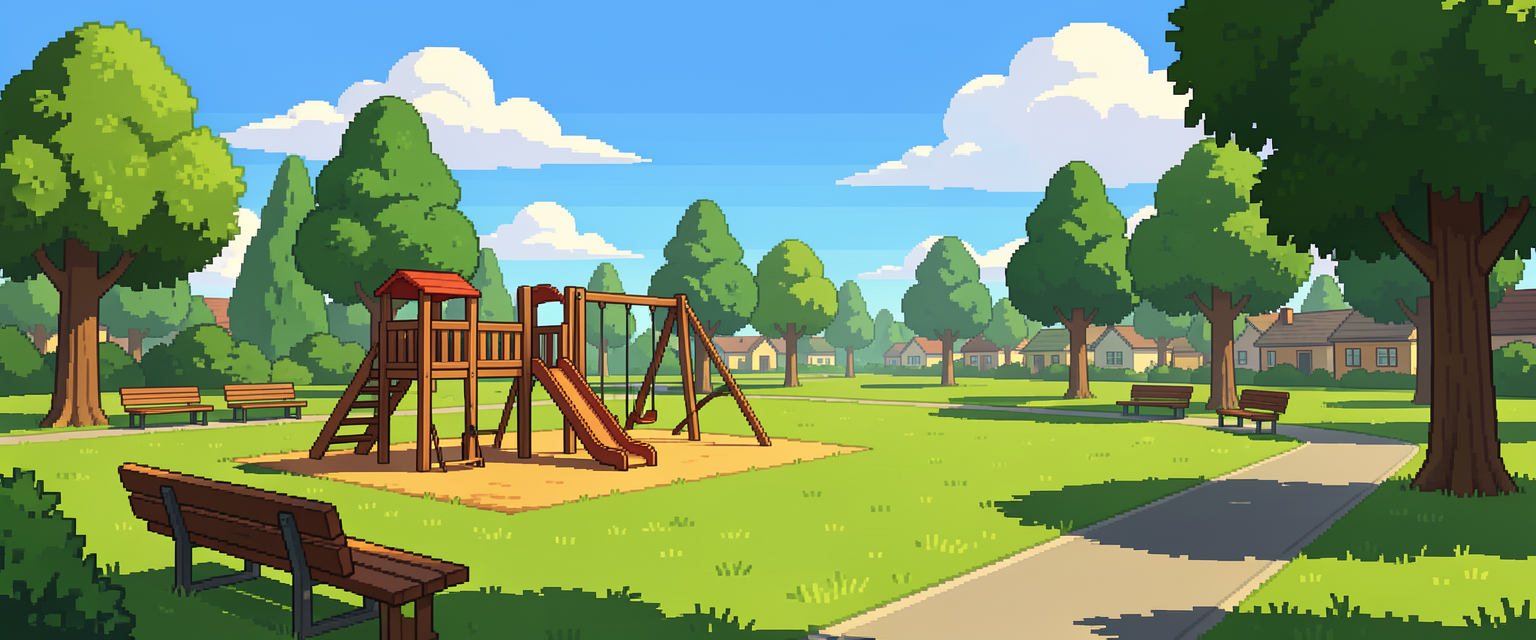
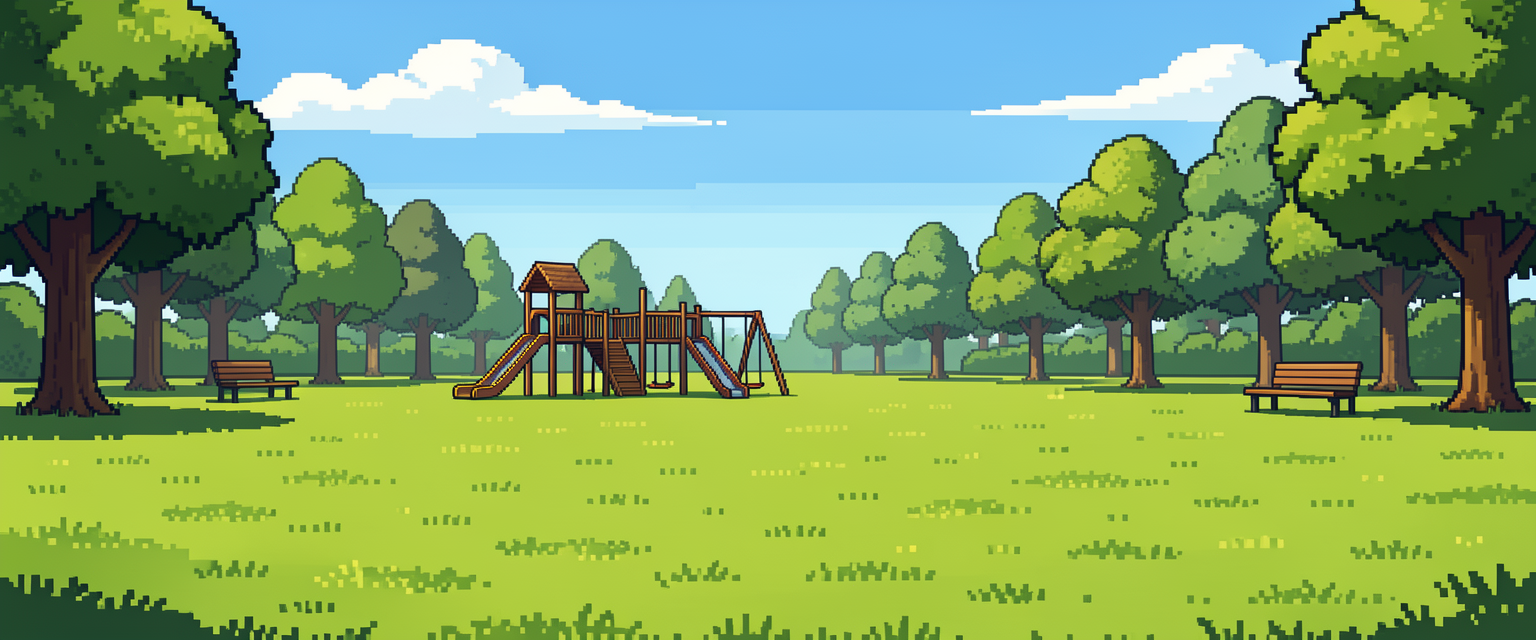
Fix black-bar letterboxing bug, restore creature size, raise art horizon
Found a real bug behind the black bars reported on-device, not just a
tuning problem: every full-rect art TextureRect in the project (11
.tscn files -- backgrounds, card art, battle sprites, item art) used
stretch_mode = 5, which was assumed to mean "crop to fill." It doesn't --
checked the actual enum values directly and 5 is
STRETCH_KEEP_ASPECT_CENTERED (fits *within* the rect, letterboxing the
rest) while 6 is STRETCH_KEEP_ASPECT_COVERED (crops to fill, no bars).
On a full-screen background this shows up as literal black bars top and
bottom on any device wider than the source art's aspect ratio -- exactly
what showed up on mobile. Fixed to 6 everywhere. (One remaining
reference, battle_v2.gd's ability-pop sprite, was already using the
symbolic STRETCH_KEEP_ASPECT_CENTERED name deliberately -- that sprite's
size is directly tweened, so not-cropping is correct there and it was
left alone.)

Also addressed creatures reading as too small and still not grounded:
- The previous round's tight anchor band (squeezing the creature grid's
  height to chase a low horizon) was the direct cause of the small
  size -- GridContainer sizes children off the assigned band when height
  is the binding constraint. Restored a generous band close to the
  original pre-background sizing.
- Rather than continuing to squeeze the UI down to reach a low horizon,
  regenerated all three Suburbs battle backgrounds with the ground
  filling roughly three quarters of the frame (horizon ~35-45% down
[…]

diff --git a/docs/gameplay-notes.md b/docs/gameplay-notes.md
@@ -910,3 +910,53 @@ on what "1.0 scale" is calibrated against (a medium creature like House
 Cat?), and the actual pivot-offset math in whichever tile scripts
 display battle sprites (`field_monster_tile.gd`, `enemy_tile_v2.gd`,
 maybe `player_panel.gd`).
+
+## Background/grounding fixes, round 2 (2026-07-13, later still)
+
+More on-device feedback on the previous round surfaced a real bug, not
+just more tuning:
+
+- **Black bars on mobile, found the actual cause.** Every full-rect
+  background art node across the whole project (not just the new
+  backgrounds -- card art, battle sprites, item art, all of it) had
+  `stretch_mode = 5`, believed at the time to be "crop to fill." It
+  isn't -- checked the real enum values directly
+  (`TextureRect.STRETCH_KEEP_ASPECT_COVERED` prints `6`; `5` is
+  `STRETCH_KEEP_ASPECT_CENTERED`, which *fits within* the rect and
+  letterboxes/pillarboxes the rest instead of cropping). On a full-
+  screen background this shows up as literal black bars top and bottom
+  on any device wider than the source image's aspect ratio -- exactly
+  what showed up on-device. Fixed to `6` everywhere it appears (11
+  `.tscn` files, all art meant to fill its rect). The one other
+  reference in code (`battle_v2.gd`'s ability-pop sprite, set via the
+  symbolic `TextureRect.STRETCH_KEEP_ASPECT_CENTERED` name rather than a
+  numeric literal) was already correct as-is -- that sprite's own size is
+  directly tweened, so *not* cropping is the right behavior there.
+- **Creatures were too small.** The previous round's tight anchor band
+  (chasing a low horizon by squeezing the grid's height) was the direct
+  cause -- `GridContainer` sizes its children off the assigned band's
+  height when height is the binding constraint, so a short band means
+  small tiles. Restored a generous band (close to the original
+  pre-background sizing) to prioritize creature size.
+- **Raised the horizon in the art itself instead of fighting the UI.**
+  Rather than continuing to squeeze the creature grid down to chase a
+  low horizon (which is what made creatures tiny), regenerated all three
+  Suburbs battle backgrounds with the ground filling roughly three
+  quarters of the frame from the bottom (horizon around 35-45% down
+  instead of the original ~55-60%) -- a wide eye-level composition, not
+  an extreme low-angle shot (tried that first; it broke the pixel-art
+  style into a weird close-up voxel-grass texture). This meets the
+  creatures' natural resting position instead of requiring the layout to
+  reach down into a low horizon.
+
+Still not pixel-perfect across all three variants (the three
+backgrounds don't share an identical horizon height, and the fix is a
+single universal anchor adjustment applied to all of them) -- exact
+alignment is still real work for the bottom-pivot per-sprite-scale
+system above, not this pass.
+
+Verified headlessly: every scene's `BackgroundArt` node reports
+`stretch_mode == STRETCH_KEEP_ASPECT_COVERED`; a live battle confirms
+the field tile size is back to a comfortable ~280x395 (was ~98x138
+before this round); all six scenes still load and survive multiple
+frames with no errors.